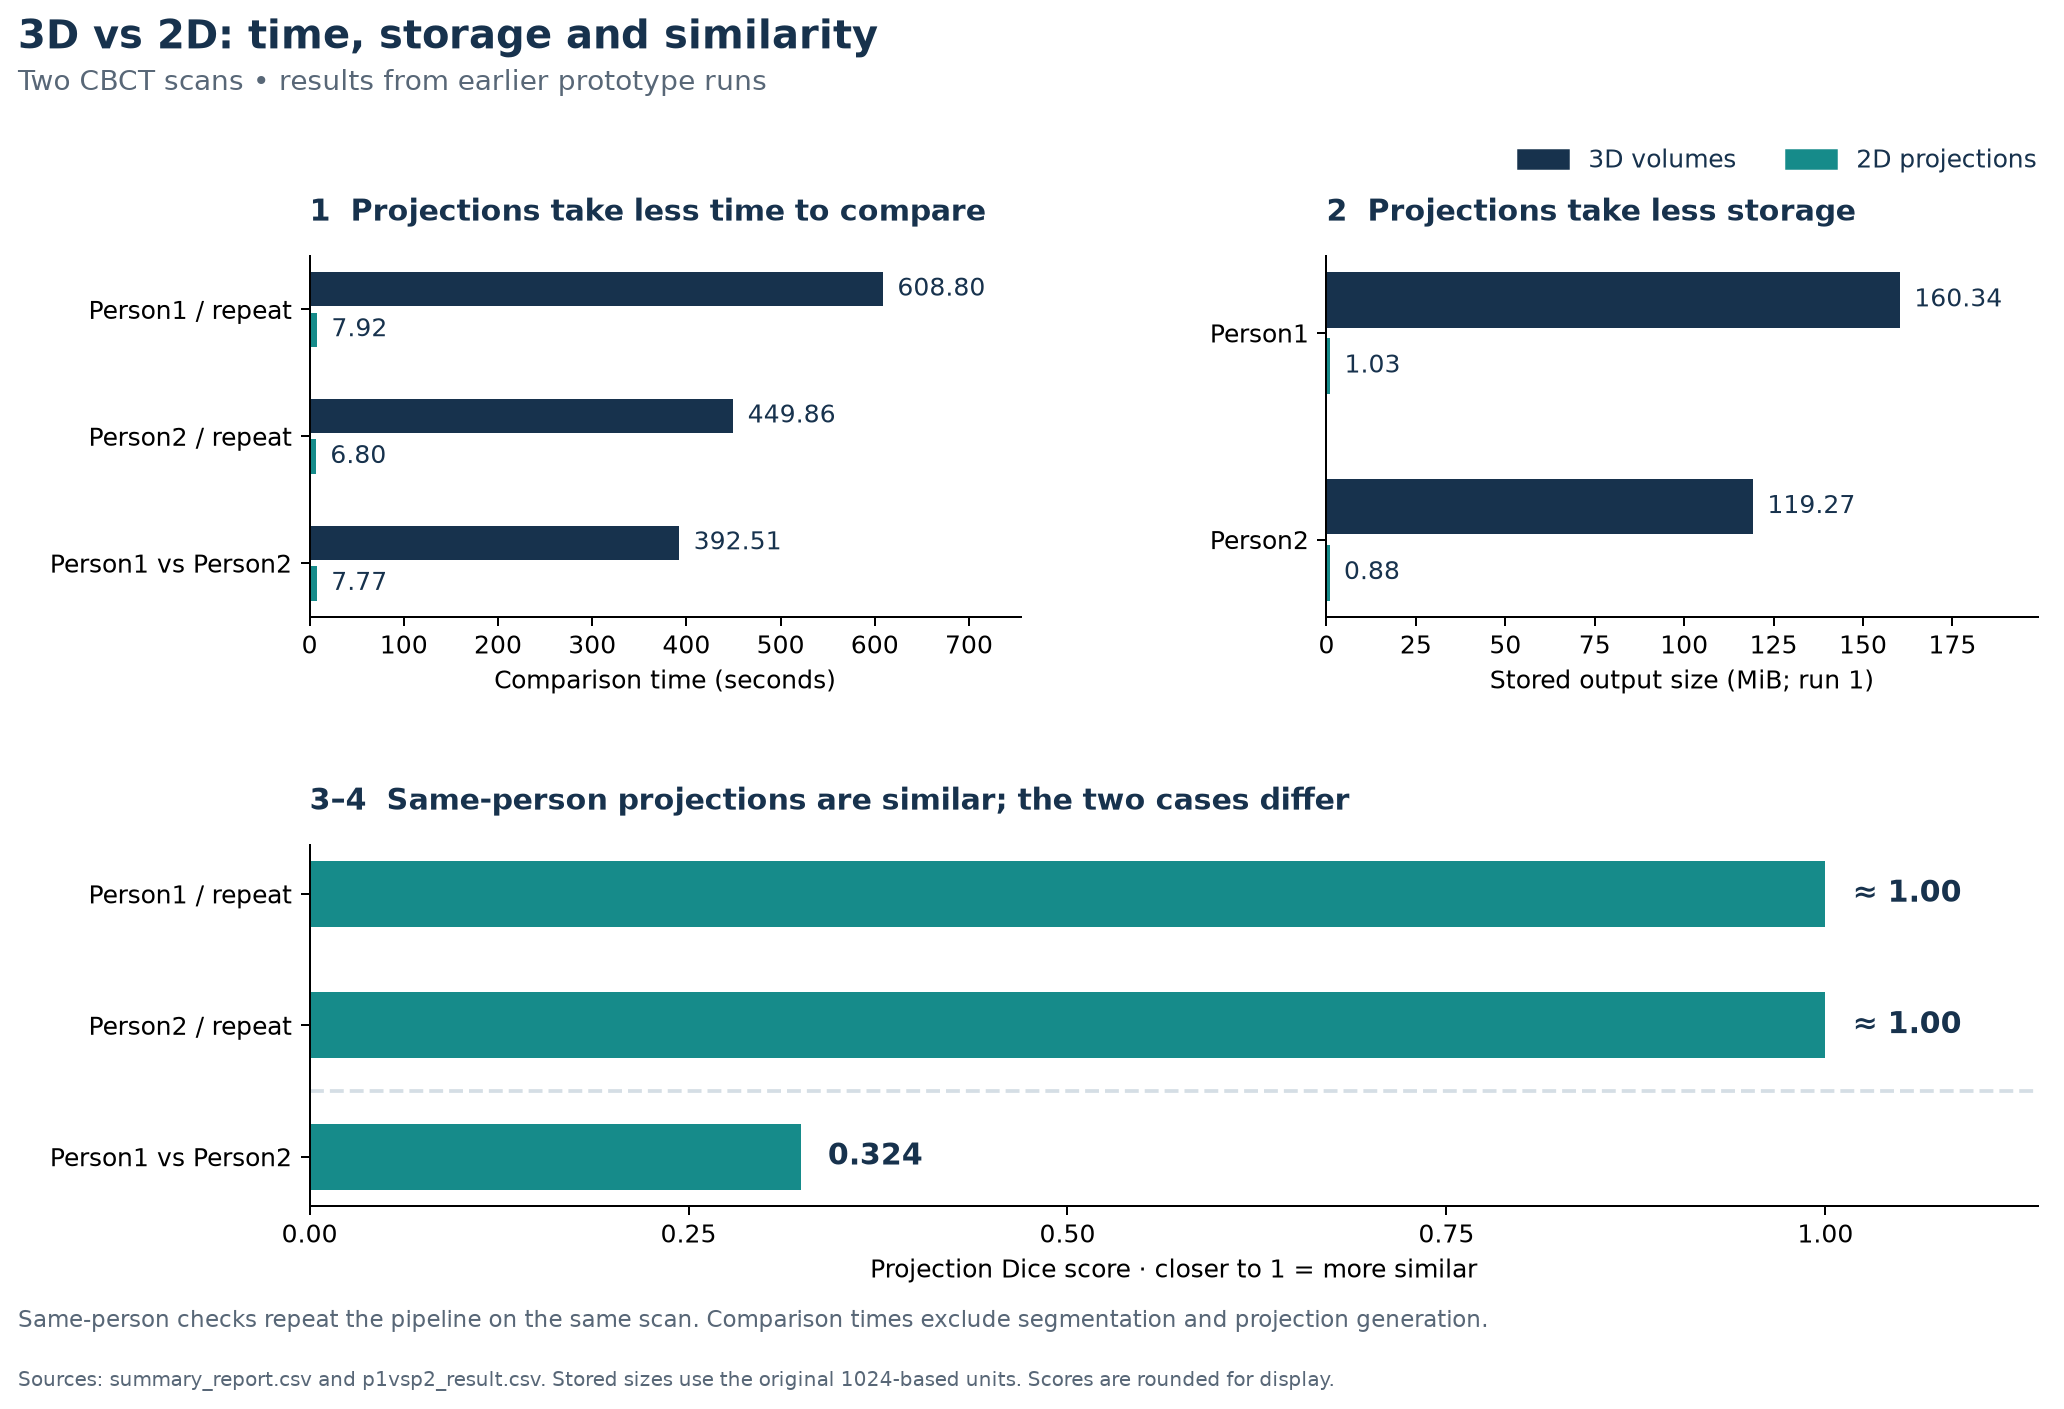
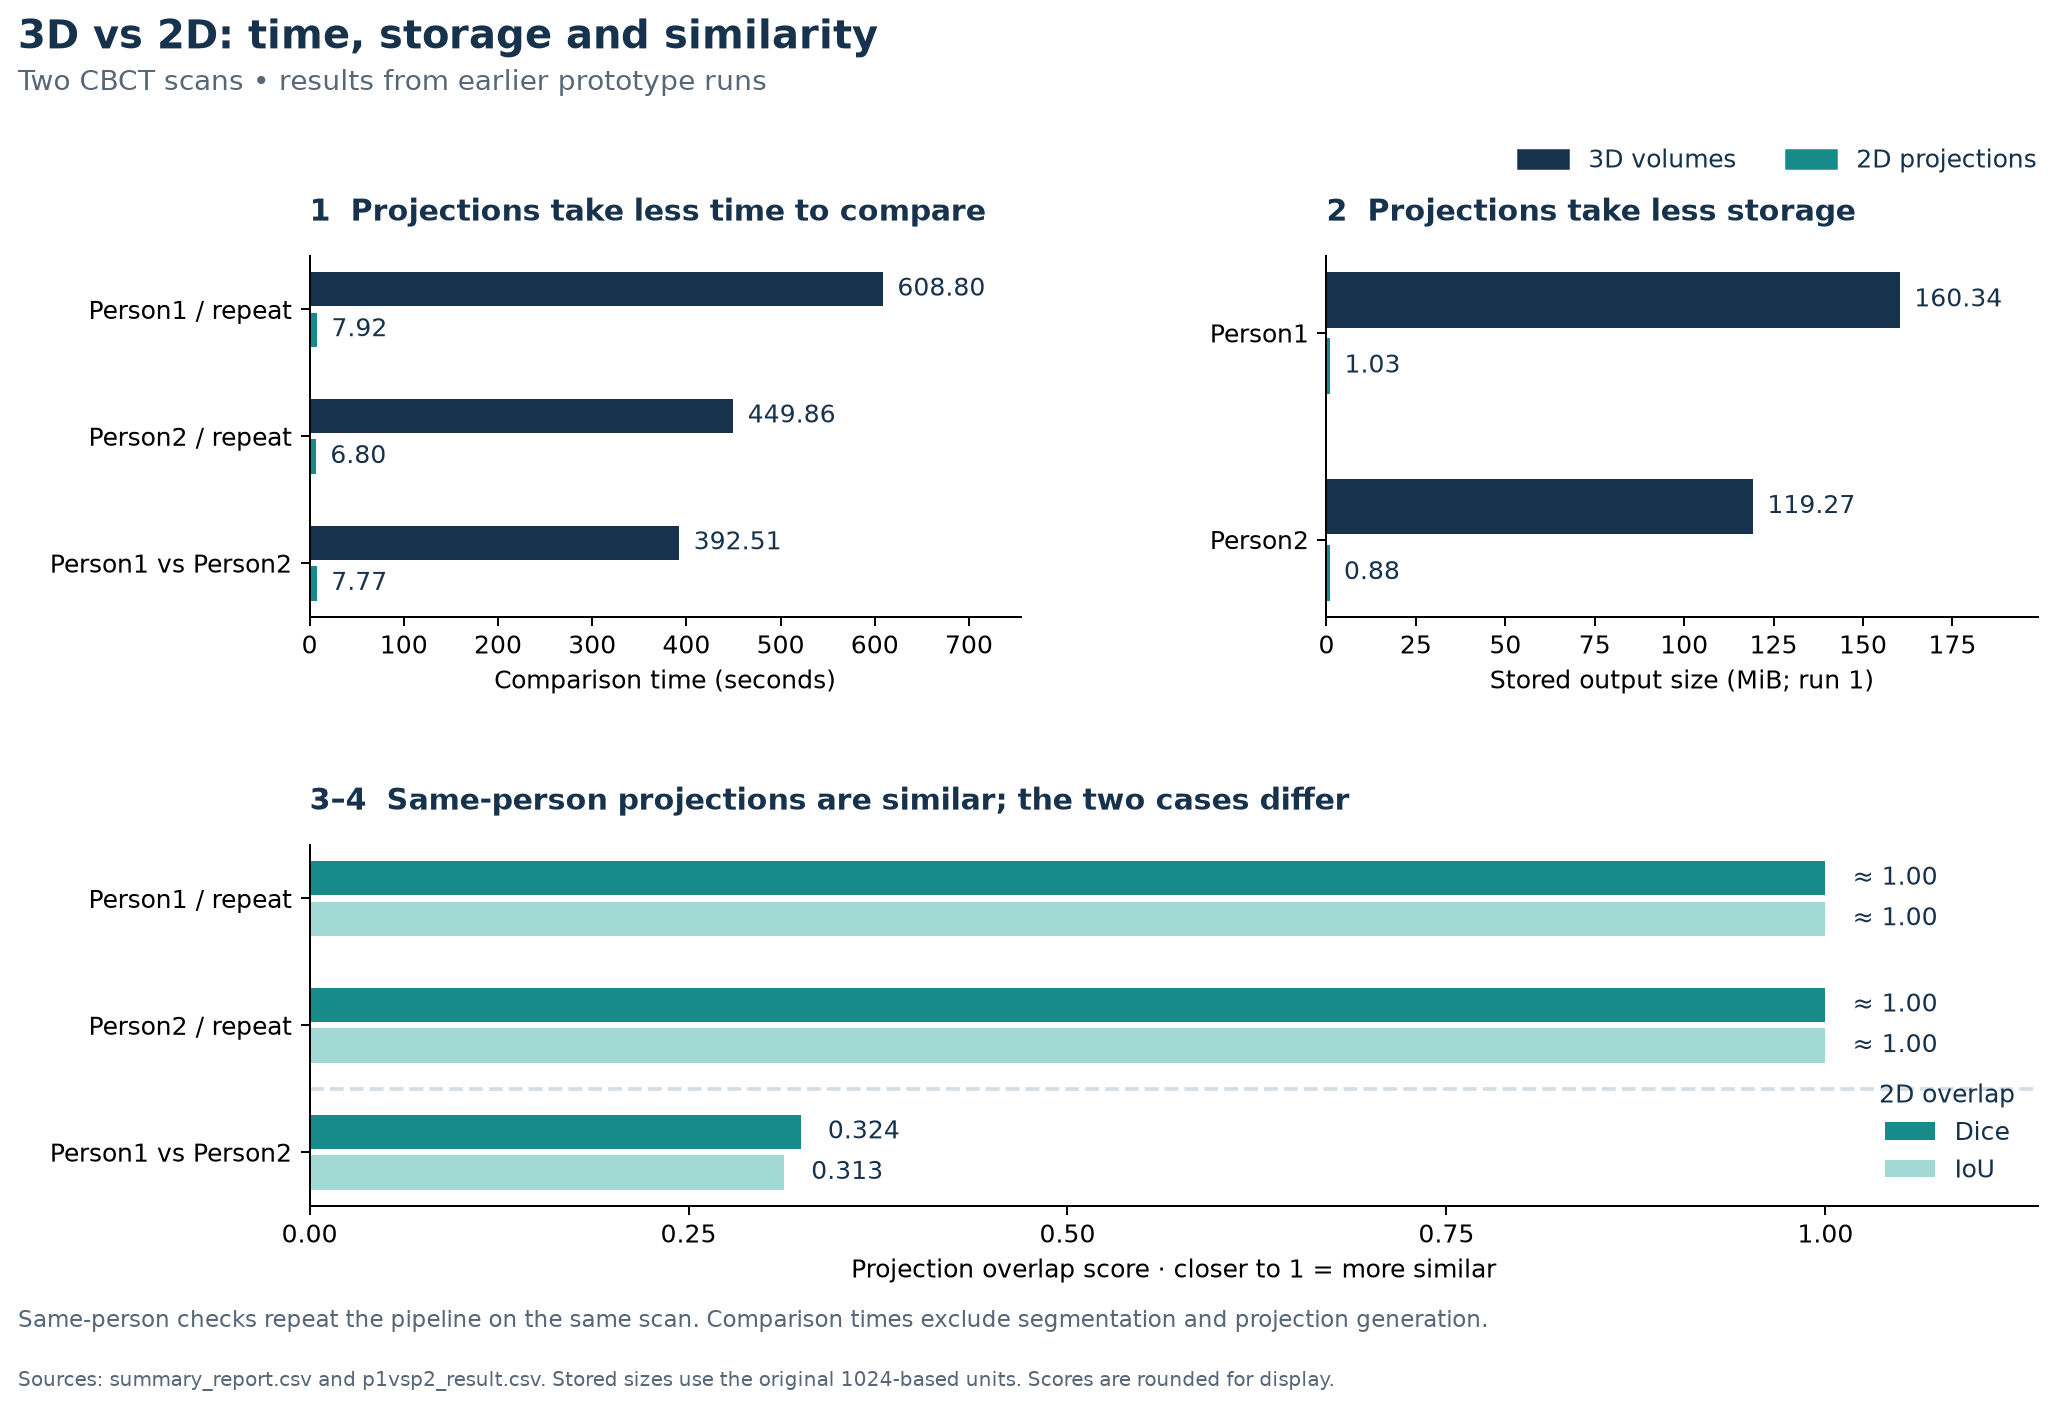
Add IoU and clarify the prototype workflow

Changed region(s): [[0.031, 0.687, 0.9922, 0.8432], [0.031, 0.6246, 0.9612, 0.687], [0.4031, 0.8744, 0.7132, 0.9056]]

diff --git a/scripts/render_figures.py b/scripts/render_figures.py
@@ -114,20 +114,26 @@ comparison_panel(
     "Stored output size (MiB; run 1)",
 )
 
-scores = [float(r["pro_compare_dice"]) for r in summary] + [
-    float(between["Projections (Person1 vs Person2)"]["avg_dice_score"])
-]
-similarity_ax.barh(range(len(scores)), scores, 0.5, color=TEAL)
-for i, score in enumerate(scores):
-    label = f"≈ {score:.2f}" if i < len(summary) else f"{score:.3f}"
-    similarity_ax.text(
-        score + 0.018, i, label, va="center", fontsize=12, fontweight="bold"
+for metric, offset, color in [("dice", -0.16, TEAL), ("iou", 0.16, "#A3D9D5")]:
+    scores = [float(r[f"pro_compare_{metric}"]) for r in summary] + [
+        float(between["Projections (Person1 vs Person2)"][f"avg_{metric}_score"])
+    ]
+    similarity_ax.barh(
+        [i + offset for i in range(len(scores))],
+        scores,
+        0.27,
+        color=color,
+        label="Dice" if metric == "dice" else "IoU",
     )
+    for i, score in enumerate(scores):
+        label = f"≈ {score:.2f}" if i < len(summary) else f"{score:.3f}"
+        similarity_ax.text(score + 0.018, i + offset, label, va="center", fontsize=10)
+similarity_ax.legend(loc="lower right", frameon=False, title="2D overlap")
 similarity_ax.set(
     yticks=range(len(labels)),
     yticklabels=labels,
     xlim=(0, 1.14),
-    xlabel="Projection Dice score · closer to 1 = more similar",
+    xlabel="Projection overlap score · closer to 1 = more similar",
 )
 similarity_ax.set_xticks([0, 0.25, 0.5, 0.75, 1])
 similarity_ax.invert_yaxis()

diff --git a/README.md b/README.md
@@ -10,27 +10,37 @@ only the full 3D volumes.
 |---|---|
 | **1. Comparing projections takes less time than comparing 3D volumes.** | Across the three saved comparisons: **6.80–7.92 s for 2D**, versus **392.51–608.80 s for 3D**. |
 | **2. Projections need less storage than 3D volumes.** | Person1: **160.34 MB → 1.03 MB**. Person2: **119.27 MB → 897.77 KB** (3D output → 2D output, run 1). |
-| **3. Projections from the same person are similar.** | Projection Dice is **approximately 1.00** for both repeated-run comparisons. |
-| **4. Projections from two different people differ.** | Person1 vs Person2: projection Dice **0.324**. |
+| **3. Projections from the same person are similar.** | Projection Dice and IoU are **approximately 1.00** for both repeated-run comparisons. |
+| **4. Projections from two different people differ.** | Person1 vs Person2: projection Dice **0.324**, IoU **0.313**. |
 
-**Dice measures overlap: a score closer to 1 means more similar projections.** Values above are rounded; the CSVs retain the original precision.
+**Dice and IoU measure overlap: both range from 0 (no overlap) to 1 (identical masks).** Values above are rounded; the CSVs retain the original precision.
 
 ![Four prototype checks: comparison time, storage, same-person overlap and between-person overlap](results/figures/prototype-overview.png)
 
 ## How I approached it
 
 ```mermaid
-flowchart LR
-    A["INPUT<br/>Two CBCT scans"] --> B["EXTRACT ANATOMY<br/>TotalSegmentator<br/>Craniofacial structures and teeth"]
-    B --> C["MAKE IT COMPACT<br/>Binary silhouettes<br/>Axial, coronal and sagittal views"]
-    C --> D["CHECK FOUR GOALS<br/>Less comparison time and storage<br/>Same-person similarity and between-person difference"]
-    B --> D
+flowchart TD
+    A["Two CBCT scans in NIfTI format<br/>Run the pipeline twice on each scan"] --> B["SEGMENT<br/>TotalSegmentator: craniofacial structures + teeth"]
+    B --> C["3D binary masks<br/>One mask per anatomical structure"]
+    C --> D["PROJECT TO 2D<br/>Maximum projection along each axis<br/>Axial, coronal and sagittal silhouettes"]
+    C --> E["EFFICIENCY<br/>Compare 3D vs 2D storage<br/>and comparison time"]
+    D --> E
+    C --> F["PAIR CORRESPONDING STRUCTURES<br/>For 2D, also match the projection view"]
+    D --> F
+    F --> G["SAME PERSON<br/>Run 1 vs run 2 of the same scan<br/>Measure Dice + IoU"]
+    F --> H["DIFFERENT PEOPLE<br/>Person1 vs Person2, run 1<br/>Measure Dice + IoU"]
+    classDef compact fill:#168B8A,stroke:#168B8A,color:#FFFFFF
     classDef result fill:#17324D,stroke:#17324D,color:#FFFFFF
-    class D result
+    class D compact
+    class E,G,H result
 ```
 
-I connected the segmentation and projection steps, implemented baseline Dice / IoU
-comparisons, and recorded output sizes and comparison times.
+**Idea:** preserve anatomical shape in three compact silhouettes per structure, then
+check whether they retain similarity while reducing storage and comparison time.
+I connected segmentation, projection and baseline Dice / IoU comparison. For
+between-person comparisons, the code resamples 3D masks to the reference grid
+and resizes 2D masks when dimensions differ before calculating overlap.
 
 ## Read the code and results
 
